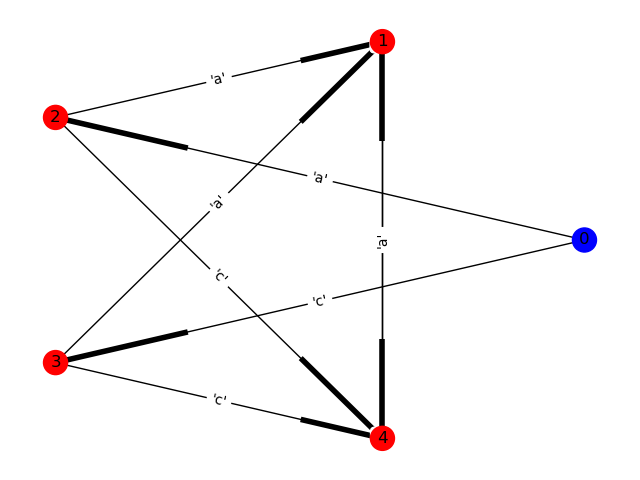
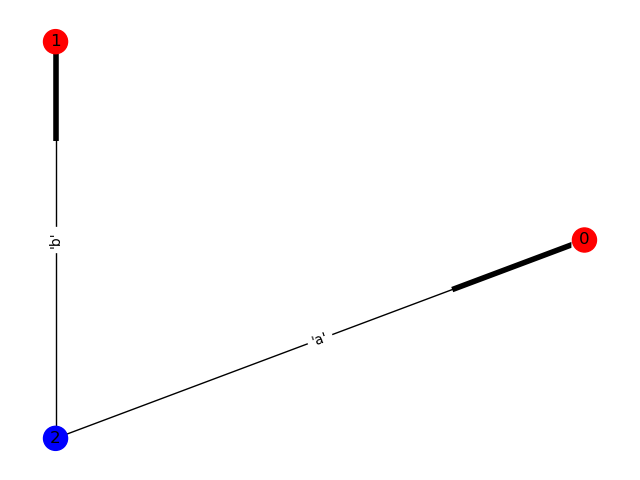
untested but running hopcroft algorithm

diff --git a/src/FiniteAutomata/FiniteAutomata.py b/src/FiniteAutomata/FiniteAutomata.py
@@ -10,6 +10,10 @@ class NodeAlreadyHasTerminalToken(Exception):
     pass
 
 
+class LostInitialState(Exception):
+    pass
+
+
 class FiniteAutomata(object):
     """
     Basic skeleton for Deterministic and Non-deterministic Finite Automata.
@@ -327,6 +331,12 @@ class LexerDFA(FiniteAutomata):
         dfa_nodes_queue = [initial_epsilon_group]
         seen_nodes = set()
 
+        # We have to add the error node because Hopcroft algorithm that will later be used to minimize the DFA
+        # requires a complete DFA. We first add the error node in the table
+        error_node_id = tuple()
+        dfa_nodes_table[error_node_id] = {'is_terminal': False, 'terminal': None, 'transitions': {},
+                                          'parents': {lookout: {error_node_id} for lookout in alphabet}}
+
         while dfa_nodes_queue:
             dfa_node = dfa_nodes_queue.pop()
 
@@ -348,7 +358,7 @@ class LexerDFA(FiniteAutomata):
                             epsilon_star_group = state.get_epsilon_star_group()
                             epsilon_star_states |= node_list_to_set_of_id(epsilon_star_group)
 
-                    new_dfa_node = tuple(epsilon_star_states) if epsilon_star_states else None
+                    new_dfa_node = tuple(epsilon_star_states) if epsilon_star_states else error_node_id
                     dfa_nodes_table[dfa_node]['transitions'][lookout] = new_dfa_node
 
                     if new_dfa_node not in dfa_nodes_table:
@@ -385,28 +395,39 @@ class LexerDFA(FiniteAutomata):
         # dfa_node_table represents a DFA, but might not be minimal
         # We get the minimal DFA using Hopcroft's algorithm
 
+        minimum_dfa = hopcrofts_algorithm(dfa_nodes_table, alphabet)
+
         # ========================================================
         # Build the final data structure of the DFA
         # ========================================================
         # dfa_nodes_table now contains all the information required to build the minimal DFA as a LexerDFA object
         # We first create the LexerDFA nodes to link afterward
 
-        dfa_nodes_as_dict = {sub_id: LexerDFA() for sub_id in dfa_nodes_table}
+        dfa_nodes_as_dict = {sub_id: LexerDFA() for sub_id in minimum_dfa}
 
         for sub_id, node in dfa_nodes_as_dict.items():
 
             # Set the terminal token
-            is_terminal = dfa_nodes_table[sub_id]['is_terminal']
+            is_terminal = minimum_dfa[sub_id]['is_terminal']
             if is_terminal:
-                token = dfa_nodes_table[sub_id]['terminal']
+                token = minimum_dfa[sub_id]['terminal']
                 node.set_terminal_token(token)
 
             # Set the transition states
-            for lookout, target in dfa_nodes_table[sub_id]['transitions'].items():
+            for lookout, target in minimum_dfa[sub_id]['transitions'].items():
                 if target:
                     node.add_transition_to_state(lookout[0], lookout[1], dfa_nodes_as_dict[target])
 
-        return dfa_nodes_as_dict[initial_epsilon_group]
+        # Finally we recover the starting node to return it
+        initial_node_id = None
+        for fset in dfa_nodes_as_dict:
+            if initial_epsilon_group in fset:
+                initial_node_id = fset
+                break
+        else:
+            raise LostInitialState("For unknown reason, the build algorithm lost its own initial state. Puzzling.")
+
+        return dfa_nodes_as_dict[initial_node_id]
 
     @staticmethod
     def build(rules):
@@ -416,23 +437,96 @@ class LexerDFA(FiniteAutomata):
         return LexerDFA.build_from_nfa(nfa)
 
 
-def hopcrofts_algorithm(dfa_nodes_table):
+def hopcrofts_algorithm(dfa_nodes_table, alphabet, error_state_id=tuple()):
     """
     Hopcroft's algorithm for minimalisation of a DFA
     :param dfa_nodes_table: A dictionary id -> node, each node is itself a dictionary with the keys 'is_terminal',
     'terminal', 'transitions', 'parents'. 'is_terminal' is a boolean stating if the state is an accepting state,
     'terminal' stores the token returned by the accepting state, 'transitions' is a dict lookout -> node_id, 'parents'
     is similar to lookout, entries point to sets of nodes id from which the current node is attainable given a certain
-    lookout.
-    :return: A dict of similar structure as the input, but representing the minimal DFA
+    lookout. Hopcroft's algorithm requires that the given DFA is complete, that is a state always leads to another state
+    given a lookout, but this might be the error state.
+    :param alphabet: The alphabet of the language of the DFA as a list of all possible lookouts
+    :return: A dict of similar structure as the input, but representing the minimal DFA. Although the minimal DFA
+    returned is not complete, the error state is not present, but implied by the absence of transition.
+    WARNING: The process of reindexing the nodes leads them to have frozen sets of tuples as index (keys in the returned
+    dict), this might change in the future, but is perfectly fine for now since these are hashable and meaningful.
     """
-    terminal_states = set([id for id in dfa_nodes_table if dfa_nodes_table[id]['is_terminal']])
-    non_terminal_states = set([id for id in dfa_nodes_table if not dfa_nodes_table[id]['is_terminal']])
+    terminal_states = frozenset([id for id in dfa_nodes_table if dfa_nodes_table[id]['is_terminal']])
+    non_terminal_states = frozenset([id for id in dfa_nodes_table if not dfa_nodes_table[id]['is_terminal']])
 
-    sets_to_refine = [terminal_states]
+    partition = {terminal_states, non_terminal_states}
+
+    sets_to_refine = {terminal_states}
 
     while sets_to_refine:
-        pass
+        analyzed_set = sets_to_refine.pop()
+
+        for lookout in alphabet:
+            lookout_parents = set()
+
+            for node in analyzed_set:
+                node_lookout_parents = dfa_nodes_table[node]['parents'][lookout]
+                lookout_parents |= node_lookout_parents
+
+            # Python does not allow change to a set while iterating through it, thus we have to update it afterward
+            remove_from_parition = set()
+            add_to_parition = set()
+            for element in partition:
+                intersection = element & lookout_parents
+                difference = element - lookout_parents
+
+                if intersection and difference:
+                    remove_from_parition.add(element)
+                    add_to_parition.add(intersection)
+                    add_to_parition.add(difference)
+
+                    if element in sets_to_refine:
+                        sets_to_refine.remove(element)
+                        sets_to_refine.add(intersection)
+                        sets_to_refine.add(difference)
+
+                    else:
+                        if len(intersection) <= len(difference):
+                            sets_to_refine.add(intersection)
+                        else:
+                            sets_to_refine.add(difference)
+
+            partition |= add_to_parition
+            partition -= remove_from_parition
+
+    # Every set of set in the partition can now be merged to a single state
+    # We first build a mapping (dict) from the old nodes ids to the new nodes ids
+
+    mapping = {}
+
+    for states in partition:
+        for state in states:
+            mapping[state] = states
+
+    # Remove the error node, represented by an empty tuple
+    partition.remove(frozenset([error_state_id]))
+
+    minimal_dfa = {}
+    for states in partition:
+        transitions = {}
+
+        for state in states:
+            for lookout, target in dfa_nodes_table[state]['transitions'].items():
+                if target == error_state_id or lookout in transitions:
+                    continue
+                else:
+                    transitions[lookout] = mapping[target]
+
+        # Hack to recover an item from a set
+        for any in states:
+            break
+
+        minimal_dfa[states] = {'is_terminal': dfa_nodes_table[any]['is_terminal'],
+                               'terminal': dfa_nodes_table[any]['terminal'],
+                               'transitions': transitions}
+
+    return minimal_dfa
 
 
 def recover_nodes_and_lookouts_from_nfa(nfa):

diff --git a/tests/test_lexer.py b/tests/test_lexer.py
@@ -8,7 +8,8 @@ def B(t, value):
     return "B_token"
 
 rules = [
-    ("[ac]+", "Accept")
+    ("a+", "Accept"),
+    ("b+", "Good")
 ]
 
 dfa = FiniteAutomata.LexerDFA.build(rules)
